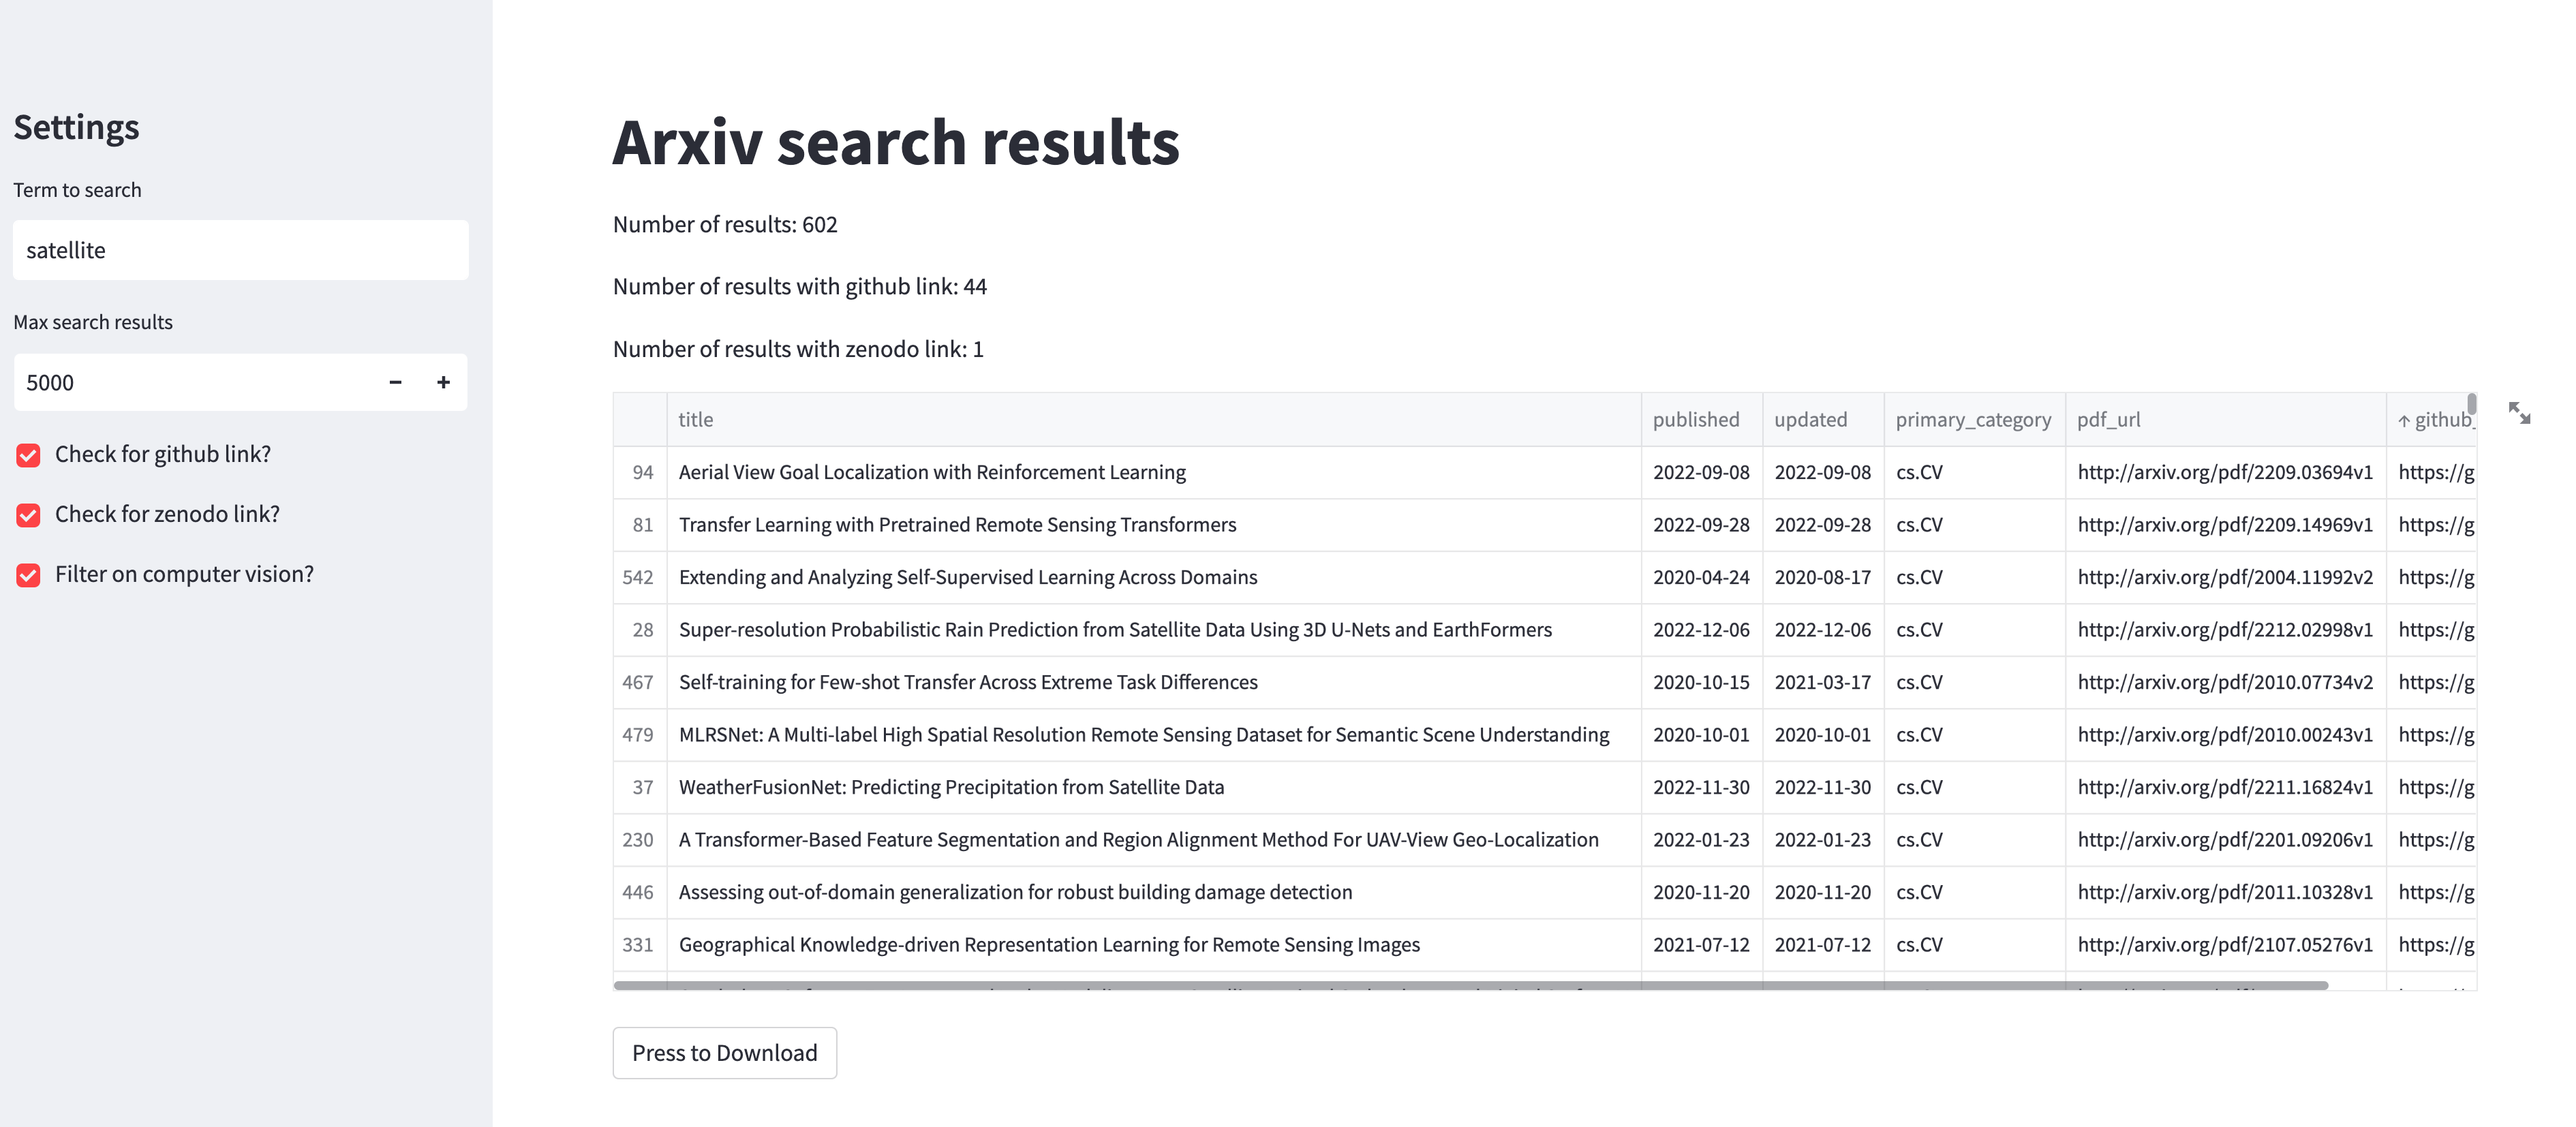
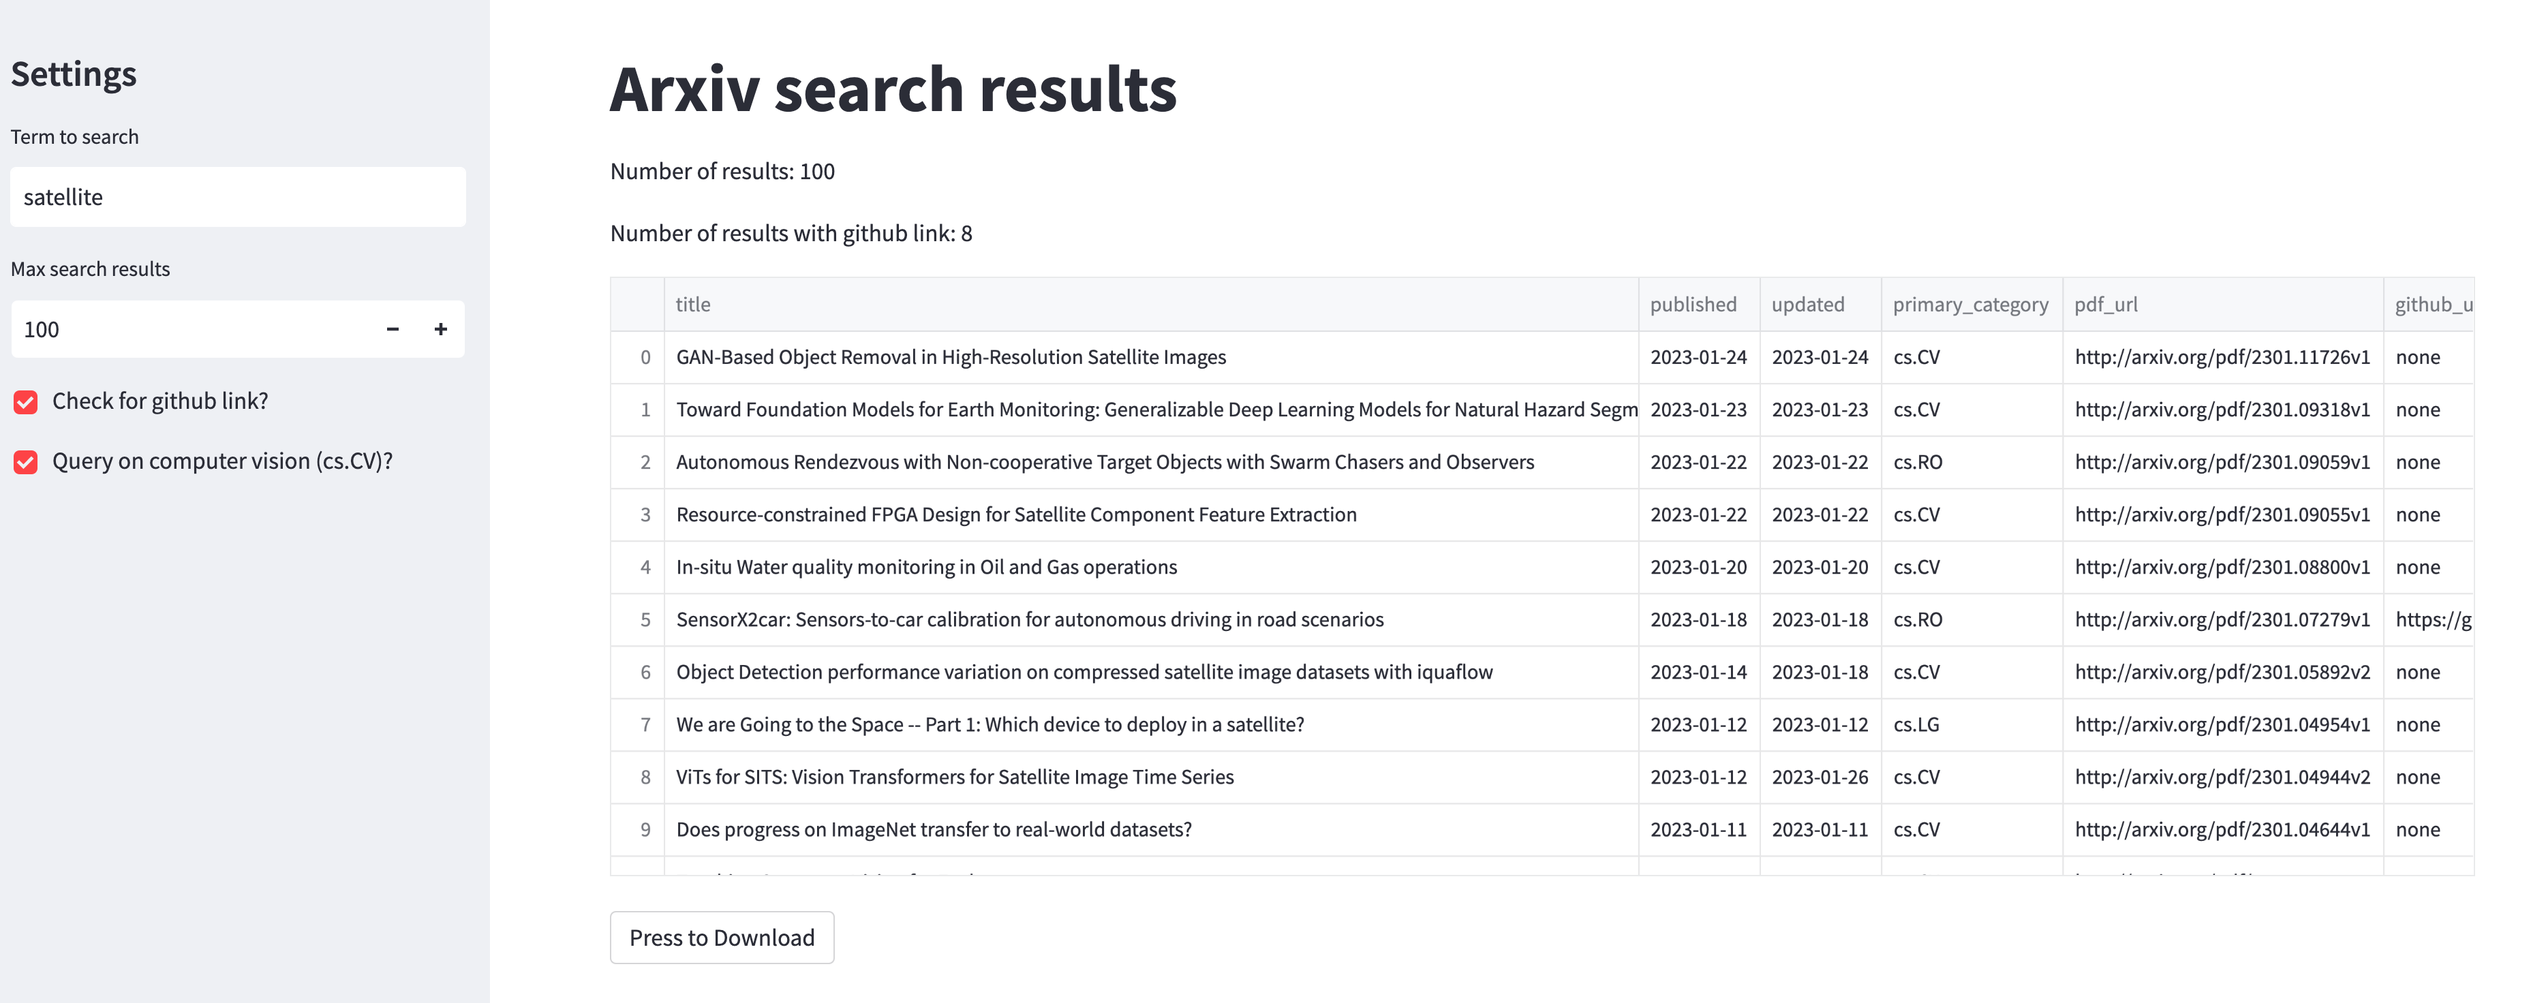
Fix caching

diff --git a/app.py b/app.py
@@ -57,11 +57,13 @@ query = st.sidebar.text_input("Term to search", value=const.DEFAULT_QUERY)
 max_results = st.sidebar.number_input(
     "Max search results", value=100, min_value=1, max_value=300000
 )
-check_for_github = st.sidebar.checkbox("Check for github link?", value=False)
-check_for_zenodo = st.sidebar.checkbox("Check for zenodo link?", value=False)
+check_for_github = st.sidebar.checkbox("Check for github link?", value=True)
 filter_on_computer_vision = st.sidebar.checkbox(
-    "Filter on computer vision?", value=False
+    "Query on computer vision (cs.CV)?", value=True
 )
+
+if filter_on_computer_vision:
+    query += f" AND cat:{const.COMPUTER_VISION}"
 
 # Get results
 results = get_results(query, max_results)
@@ -78,8 +80,6 @@ for result in results:
     }
     if check_for_github:
         data["github_url"] = get_valid_url(result.summary, const.GITHUB_URL_REGEX)
-    if check_for_zenodo:
-        data["zenodo_url"] = get_valid_url(result.summary, const.ZENODO_URL_REGEX)
     parsed_results.append(data)
 
 # Display results
@@ -90,17 +90,11 @@ if len(parsed_results) > 0:
     df["published"] = df["published"].dt.strftime(const.DATE_FORMAT)
     df["updated"] = df["updated"].dt.strftime(const.DATE_FORMAT)
 
-    if filter_on_computer_vision:
-        df = df[df["primary_category"] == const.COMPUTER_VISION]
-
     df.reset_index(drop=True, inplace=True)
     st.write(f"Number of results: {len(df)}")
     if check_for_github:
         num_github = df["github_url"].value_counts().get("none", 0)
         st.write(f"Number of results with github link: {len(df) - num_github}")
-    if check_for_zenodo:
-        num_zenodo = df["zenodo_url"].value_counts().get("none", 0)
-        st.write(f"Number of results with zenodo link: {len(df) - num_zenodo}")
 
     st.dataframe(df)
     csv = convert_df(df)
